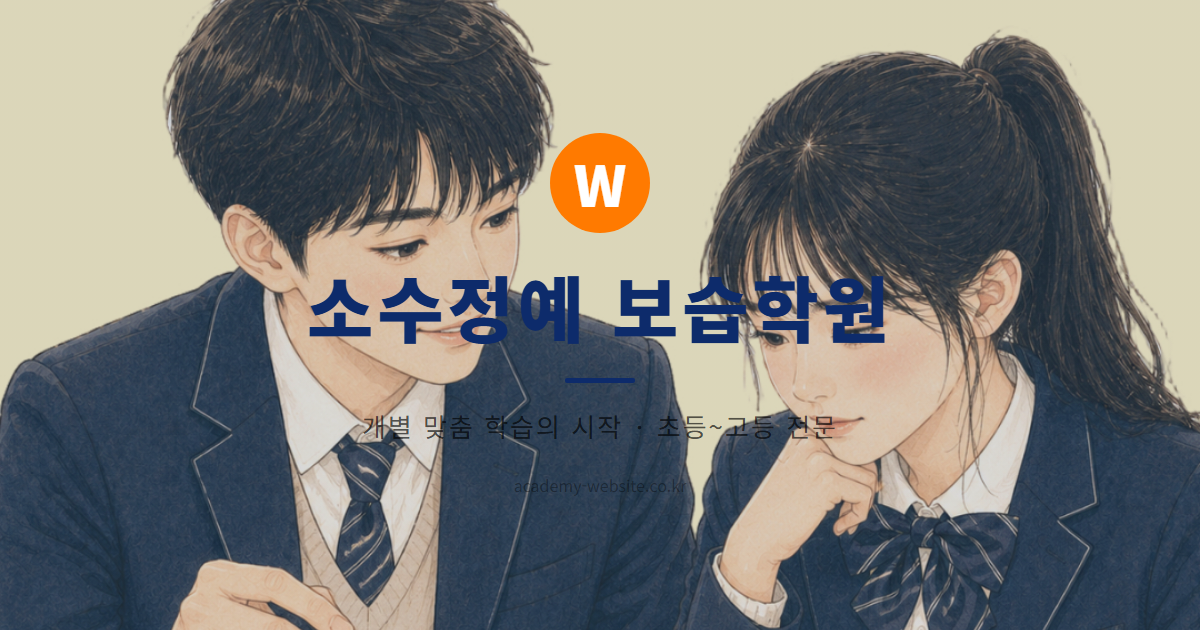
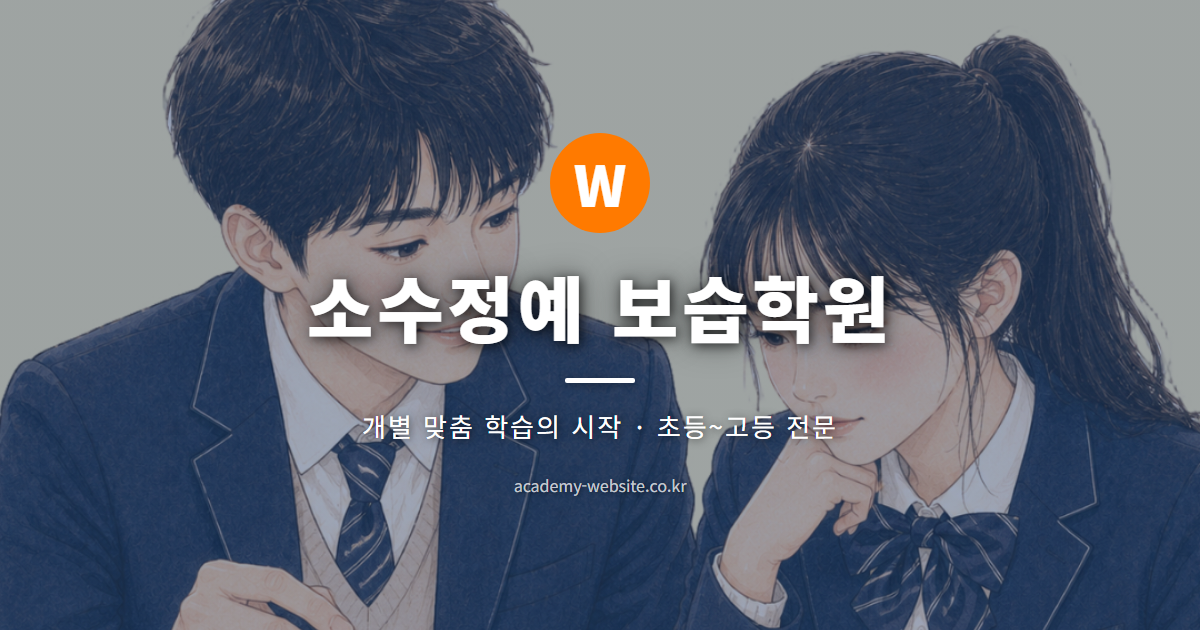
썸네일 글씨 가독성 개선: 흰색 텍스트 + 그림자 추가

diff --git a/og-preview.html b/og-preview.html
@@ -1,0 +1,34 @@
+<!DOCTYPE html>
+<html>
+<head>
+<meta charset="UTF-8">
+<style>
+  body { margin: 0; background: #eee; display: flex; justify-content: center; align-items: center; min-height: 100vh; }
+  .og {
+    width: 1200px; height: 630px; position: relative; overflow: hidden;
+    font-family: 'Noto Sans KR', sans-serif;
+    background: linear-gradient(rgba(13,43,107,0.40), rgba(13,43,107,0.40)), url('카톡배경.jpg') center/cover no-repeat;
+    display: flex; flex-direction: column; justify-content: center; align-items: center; gap: 20px;
+  }
+  .logo-icon {
+    width: 100px; height: 100px; background: #FF7A00; border-radius: 50%;
+    display: flex; align-items: center; justify-content: center;
+    font-size: 56px; font-weight: 900; color: white;
+  }
+  .academy-name { font-size: 72px; font-weight: 900; color: #fff; letter-spacing: 4px; text-align: center; text-shadow: 2px 2px 12px rgba(0,0,0,0.7), 0 0 30px rgba(0,0,0,0.5); }
+  .divider { width: 70px; height: 5px; background: #fff; border-radius: 2px; box-shadow: 0 2px 8px rgba(0,0,0,0.4); }
+  .tagline { font-size: 26px; color: #fff; text-align: center; line-height: 1.8; letter-spacing: 2px; text-shadow: 1px 1px 8px rgba(0,0,0,0.7); }
+  .url { font-size: 16px; color: rgba(255,255,255,0.75); margin-top: 4px; text-shadow: 1px 1px 4px rgba(0,0,0,0.5); }
+</style>
+<link href="https://fonts.googleapis.com/css2?family=Noto+Sans+KR:wght@400;700;900&display=swap" rel="stylesheet">
+</head>
+<body>
+<div class="og">
+  <div class="logo-icon">W</div>
+  <div class="academy-name">소수정예 보습학원</div>
+  <div class="divider"></div>
+  <div class="tagline">개별 맞춤 학습의 시작 · 초등~고등 전문</div>
+  <div class="url">academy-website.co.kr</div>
+</div>
+</body>
+</html>